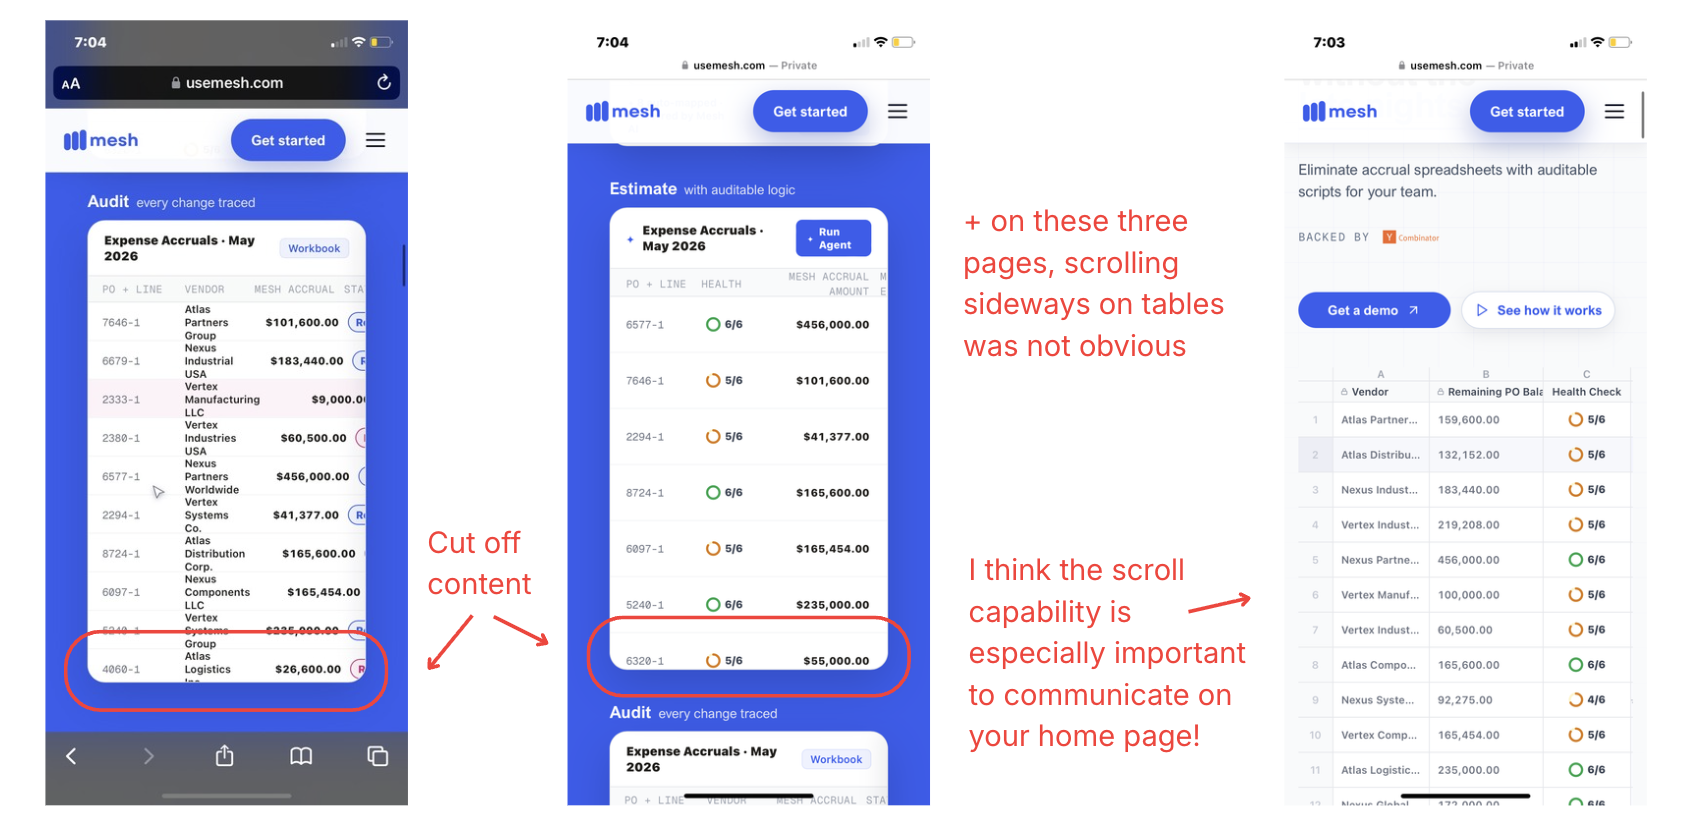
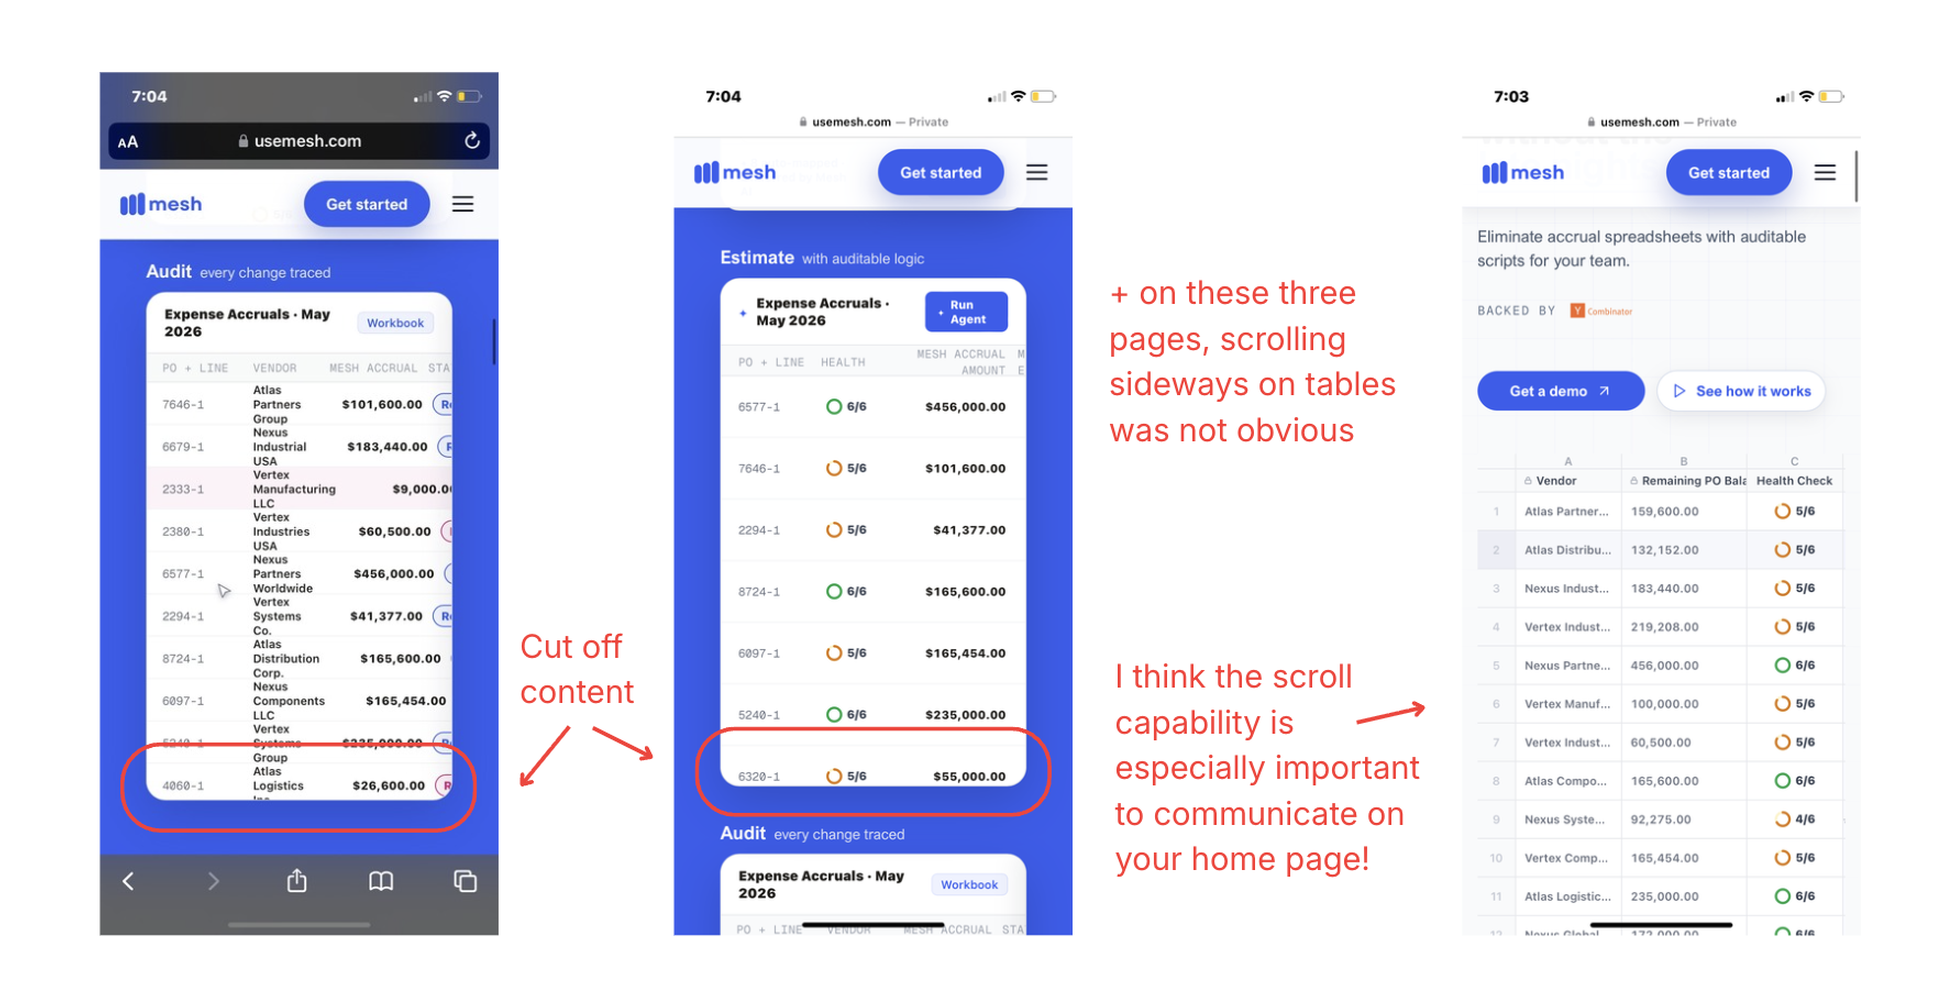
Fix mesh hidden-interactions image margins
Bake extra size and white padding into the screenshot itself instead of
oversized box padding, so it matches the standard margin used by the
other Key Findings images.

diff --git a/src/app/projects/mesh/page.tsx b/src/app/projects/mesh/page.tsx
@@ -35,19 +35,9 @@ function Prose({ children }: { children: ReactNode }) {
   return <div className="mt-4 max-w-[960px] space-y-4 leading-relaxed text-foreground/70">{children}</div>;
 }
 
-function MediaFigure({
-  src,
-  alt,
-  caption,
-  pad = "p-6",
-}: {
-  src: string;
-  alt: string;
-  caption: string;
-  pad?: string;
-}) {
+function MediaFigure({ src, alt, caption }: { src: string; alt: string; caption: string }) {
   return (
-    <div className={`border border-black/15 bg-black/[0.035] ${pad}`}>
+    <div className="border border-black/15 bg-black/[0.035] p-6">
       {/* eslint-disable-next-line @next/next/no-img-element */}
       <img src={`${BASE_PATH}${src}`} alt={alt} className="w-full border border-black/10" />
       <p className="mt-2 text-xs text-foreground/50">{caption}</p>
@@ -420,12 +410,7 @@ export default function MeshPage() {
                     </div>
                   </div>
                 ) : finding.image ? (
-                  <MediaFigure
-                    src={finding.image}
-                    alt={finding.imageAlt ?? ""}
-                    caption={finding.visual ?? ""}
-                    pad={index === 1 ? "p-16 sm:p-24" : "p-6"}
-                  />
+                  <MediaFigure src={finding.image} alt={finding.imageAlt ?? ""} caption={finding.visual ?? ""} />
                 ) : undefined
               }
             />
